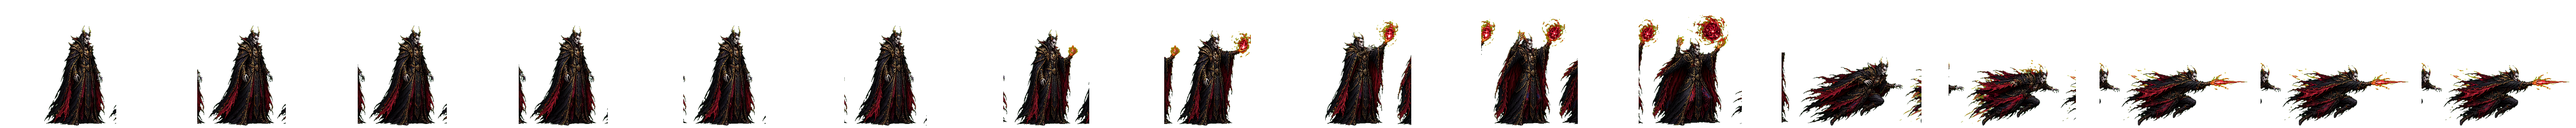
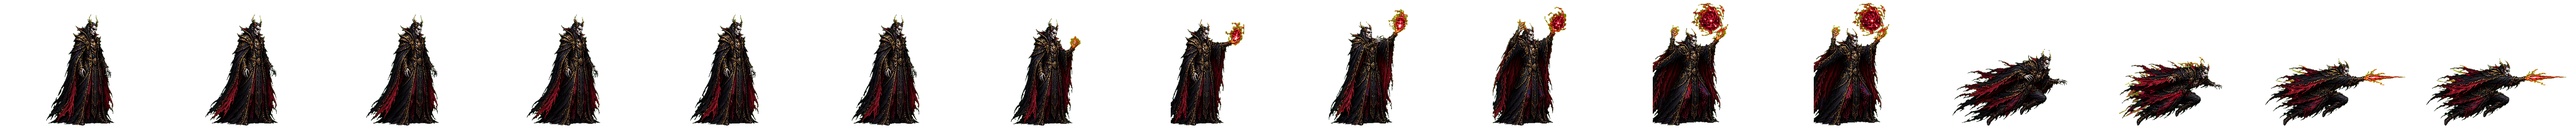
Fix Nocturne boss frame slicing

Changed region(s): [[0.0, 0.0312, 1.0, 1.0]]

diff --git a/nocturne-reliquary/game.js b/nocturne-reliquary/game.js
@@ -3297,7 +3297,7 @@
 
   function bossFrameIndex(boss) {
     if (boss.state === "cast") return 6 + Math.floor(game.time * 12) % 6;
-    if (boss.state === "dash") return 12 + Math.floor(game.time * 16) % 2;
+    if (boss.state === "dash") return 12 + Math.floor(game.time * 16) % 4;
     return Math.floor(game.time * 6) % 6;
   }
 

diff --git a/nocturne-reliquary/tools/build-imagen-hd-boss.py b/nocturne-reliquary/tools/build-imagen-hd-boss.py
@@ -14,6 +14,28 @@ FRAME_W = 320
 FRAME_H = 256
 FRAMES = 16
 
+# The Imagen source has good character poses, but it did not honor an exact
+# 8x2 slot grid. These boxes are hand-picked from the source atlas so the
+# runtime strip contains whole silhouettes instead of detached spell fragments.
+FRAME_BOXES = [
+    (8, 54, 216, 404),
+    (214, 54, 438, 404),
+    (436, 54, 658, 404),
+    (662, 54, 882, 404),
+    (896, 54, 1110, 404),
+    (1116, 54, 1324, 404),
+    (1334, 66, 1548, 408),
+    (1560, 70, 1774, 410),
+    (0, 452, 232, 838),
+    (238, 448, 452, 838),
+    (470, 436, 700, 838),
+    (470, 436, 700, 838),
+    (690, 566, 1048, 842),
+    (1040, 584, 1354, 842),
+    (1338, 594, 1774, 842),
+    (1338, 594, 1774, 842),
+]
+
 
 def remove_green_key(img: Image.Image) -> Image.Image:
     rgba = img.convert("RGBA")
@@ -32,66 +54,10 @@ def remove_green_key(img: Image.Image) -> Image.Image:
     return rgba
 
 
-def component_boxes(img: Image.Image) -> list[tuple[int, int, int, int]]:
-    alpha = img.getchannel("A")
-    w, h = alpha.size
-    mask = bytearray(1 if v > 12 else 0 for v in alpha.tobytes())
-    seen = bytearray(w * h)
-    boxes: list[tuple[int, int, int, int, int]] = []
-
-    for y in range(h):
-        for x in range(w):
-            i = y * w + x
-            if not mask[i] or seen[i]:
-                continue
-            stack = [(x, y)]
-            seen[i] = 1
-            x0 = x1 = x
-            y0 = y1 = y
-            count = 0
-            while stack:
-                cx, cy = stack.pop()
-                count += 1
-                x0 = min(x0, cx)
-                x1 = max(x1, cx)
-                y0 = min(y0, cy)
-                y1 = max(y1, cy)
-                for nx, ny in ((cx + 1, cy), (cx - 1, cy), (cx, cy + 1), (cx, cy - 1)):
-                    if 0 <= nx < w and 0 <= ny < h:
-                        ni = ny * w + nx
-                        if mask[ni] and not seen[ni]:
-                            seen[ni] = 1
-                            stack.append((nx, ny))
-            if count > 12000:
-                boxes.append((count, x0, y0, x1 + 1, y1 + 1))
-
-    if len(boxes) < 8:
-        raise SystemExit(f"Expected several boss components, found {len(boxes)}")
-
-    # The source image has reliable character silhouettes but not a perfect slot grid.
-    # Sort by visual rows, then x, and duplicate the last dash poses to fill 16 frames.
-    boxes = sorted(boxes, key=lambda b: b[0], reverse=True)[:16]
-    top_cut = img.height * 0.48
-    top = sorted([b for b in boxes if (b[2] + b[4]) / 2 < top_cut], key=lambda b: b[1])
-    bottom = sorted([b for b in boxes if (b[2] + b[4]) / 2 >= top_cut], key=lambda b: b[1])
-    ordered = top + bottom
-    while len(ordered) < FRAMES:
-      ordered.append(ordered[-1])
-    return [(b[1], b[2], b[3], b[4]) for b in ordered[:FRAMES]]
-
-
 def extract_frames(atlas: Image.Image) -> list[Image.Image]:
     keyed = remove_green_key(atlas)
     frames = []
-    for x0, y0, x1, y1 in component_boxes(keyed):
-        pad_x = round((x1 - x0) * 0.18)
-        pad_y = round((y1 - y0) * 0.08)
-        box = (
-            max(0, x0 - pad_x),
-            max(0, y0 - pad_y),
-            min(keyed.width, x1 + pad_x),
-            min(keyed.height, y1 + pad_y),
-        )
+    for box in FRAME_BOXES:
         crop = keyed.crop(box)
         crop = ImageEnhance.Contrast(crop).enhance(1.04)
         crop = ImageEnhance.Color(crop).enhance(1.03)
@@ -108,7 +74,7 @@ def normalize(frames: list[Image.Image]) -> list[Image.Image]:
 
     max_w = max(box[2] - box[0] for box in boxes)
     max_h = max(box[3] - box[1] for box in boxes)
-    scale = min((FRAME_W * 0.92) / max_w, (FRAME_H * 0.93) / max_h)
+    scale = min((FRAME_W * 0.96) / max_w, (FRAME_H * 0.96) / max_h, 0.78)
     normalized = []
 
     for frame in frames:
@@ -120,8 +86,46 @@ def normalize(frames: list[Image.Image]) -> list[Image.Image]:
             x = (FRAME_W - body.width) // 2
             y = FRAME_H - body.height - 5
             canvas.alpha_composite(body, (x, y))
-        normalized.append(canvas)
+        normalized.append(drop_small_components(canvas))
     return normalized
+
+
+def drop_small_components(img: Image.Image, min_pixels: int = 900) -> Image.Image:
+    alpha = img.getchannel("A")
+    w, h = alpha.size
+    mask = bytearray(1 if v > 16 else 0 for v in alpha.tobytes())
+    seen = bytearray(w * h)
+    keep = bytearray(w * h)
+
+    for y in range(h):
+        for x in range(w):
+            i = y * w + x
+            if not mask[i] or seen[i]:
+                continue
+            stack = [(x, y)]
+            seen[i] = 1
+            component = []
+            while stack:
+                cx, cy = stack.pop()
+                ci = cy * w + cx
+                component.append(ci)
+                for nx, ny in ((cx + 1, cy), (cx - 1, cy), (cx, cy + 1), (cx, cy - 1)):
+                    if 0 <= nx < w and 0 <= ny < h:
+                        ni = ny * w + nx
+                        if mask[ni] and not seen[ni]:
+                            seen[ni] = 1
+                            stack.append((nx, ny))
+            if len(component) >= min_pixels:
+                for ci in component:
+                    keep[ci] = 1
+
+    out = img.copy()
+    px = out.load()
+    for y in range(h):
+        for x in range(w):
+            if not keep[y * w + x]:
+                px[x, y] = (0, 0, 0, 0)
+    return out
 
 
 def main() -> None:
